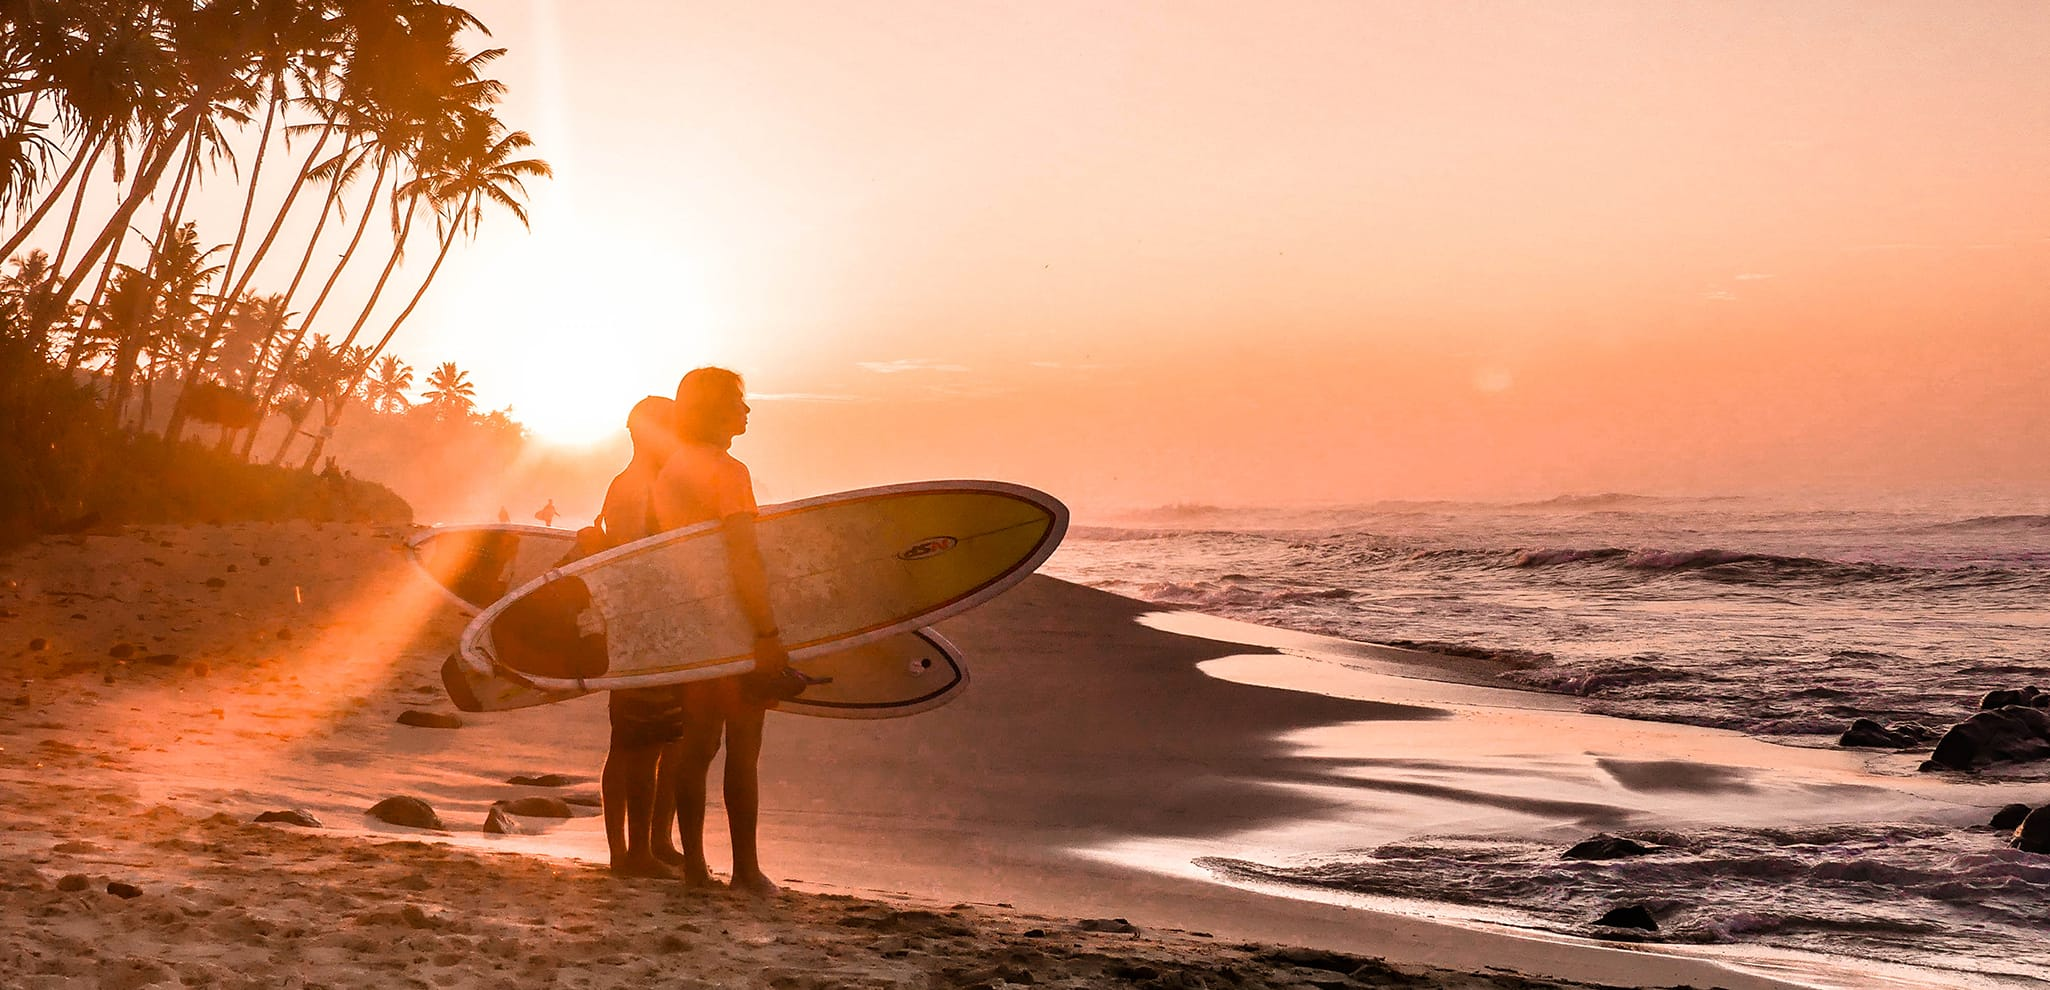
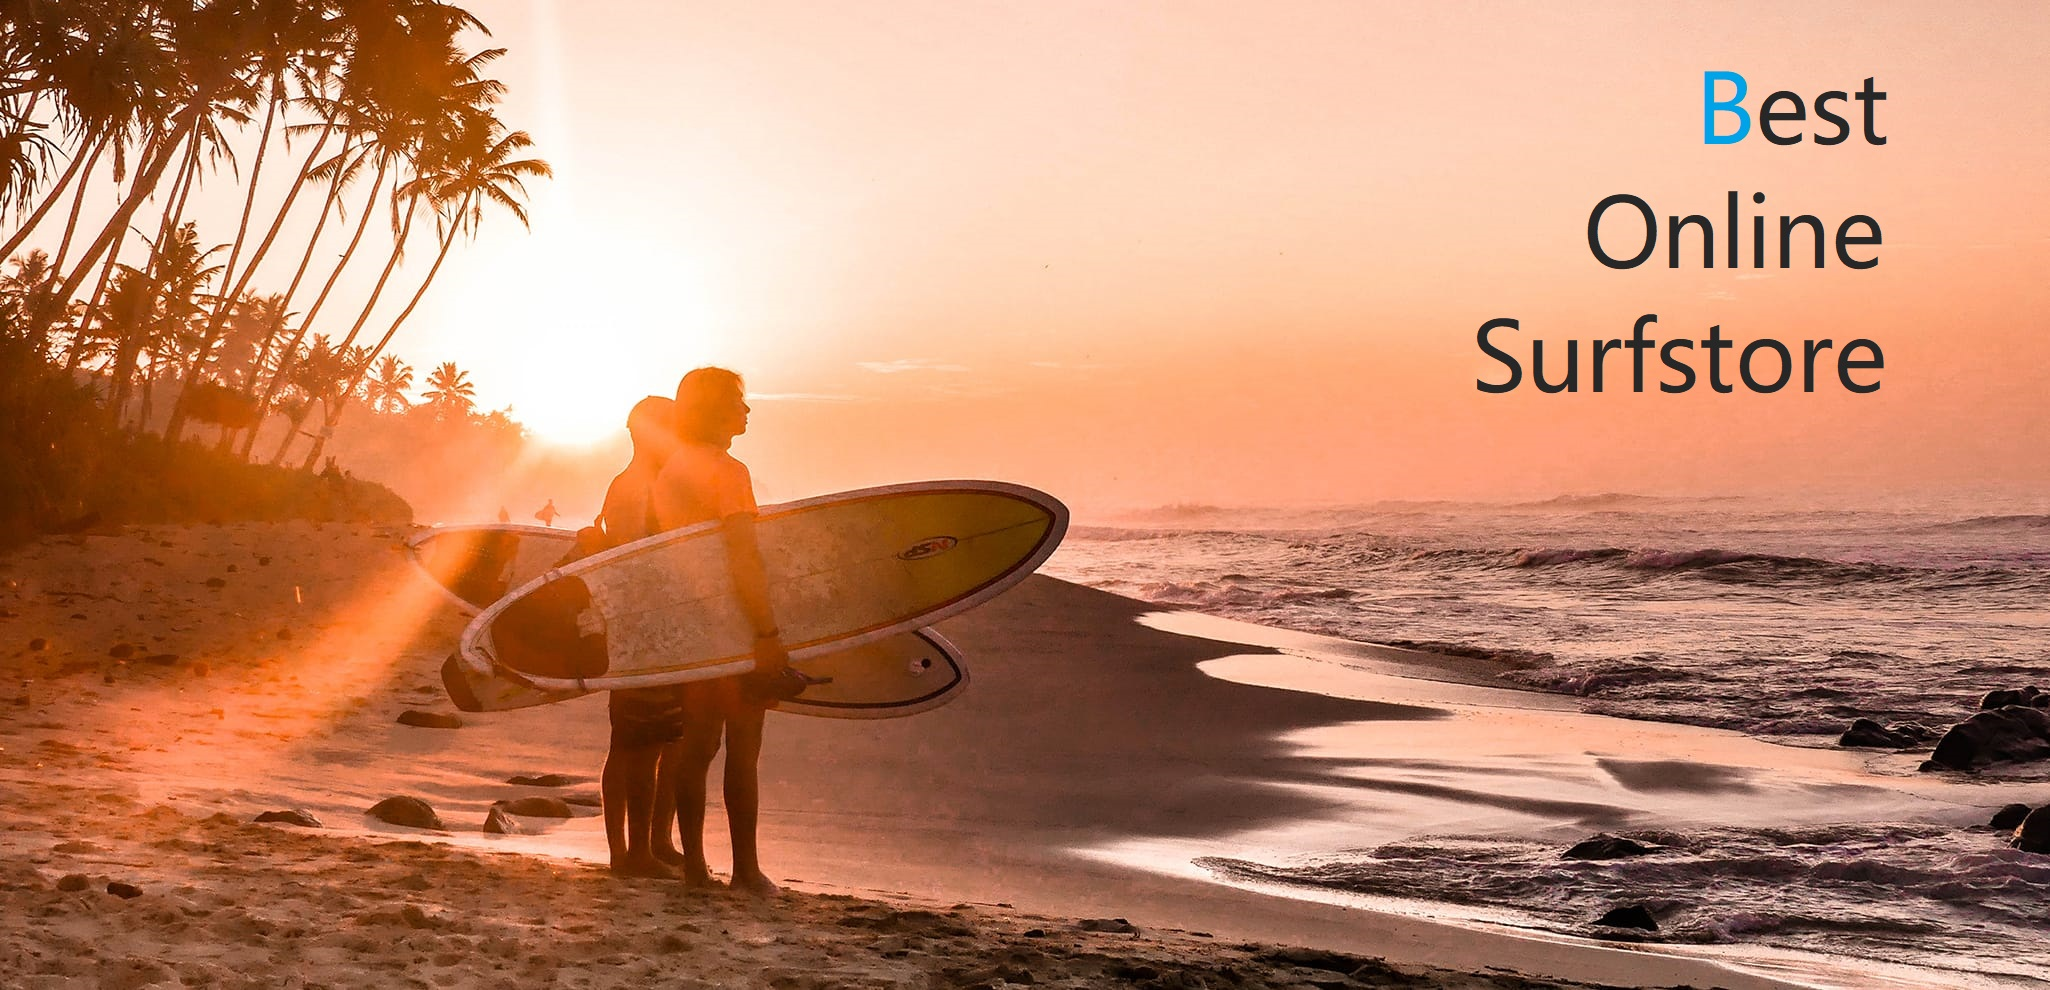
Change index image

Changed region(s): [[0.718, 0.303, 0.9366, 0.3939], [0.7493, 0.1818, 0.9366, 0.2727], [0.8117, 0.0606, 0.9366, 0.1515]]

diff --git a/public/css/app.css b/public/css/app.css
@@ -260,6 +260,8 @@ input[type=number] {
   padding-top: 66.64%;
   margin-top: -150px;
   margin-left: -7.5vw;
+  -webkit-filter: brightness(80%);
+          filter: brightness(80%);
 }
 
 .index-subcategory {

diff --git a/resources/sass/pages/index.scss b/resources/sass/pages/index.scss
@@ -50,6 +50,7 @@
   padding-top: 66.64%;
   margin-top: -150px;
   margin-left: -7.5vw;
+  filter: brightness(80%);
 }
 
 .index-subcategory{

diff --git a/resources/views/contact/index.blade.php b/resources/views/contact/index.blade.php
@@ -6,11 +6,9 @@
 
 {!! Form::open(['action'=>'ContactController@submit_message', 'method'=>'POST']) !!}
   @csrf
-  {{Form::email('email', '', ['class'=>'form-control', 'placeholder'=>'Enter your email'])}}
-  <div class="form-group">
-    {{Form::text('subject', '', ['class'=>'form-control mt-5', 'placeholder'=>'Subject'])}}
-    {{Form::textarea('message', '', ['class'=>'form-control mt-2', 'placeholder'=>'Message'])}}
-  </div>
+  {{Form::email('email', '', ['class'=>'form-control mb-1', 'placeholder'=>'Enter your email'])}}
+  {{Form::text('subject', '', ['class'=>'form-control mb-1', 'placeholder'=>'Subject'])}}
+  {{Form::textarea('message', '', ['class'=>'form-control', 'placeholder'=>'Message'])}}
   <div class="form-group mt-5">
     {!! link_to(URL::previous(), 'Back', ['class'=>'btn btn-default']) !!}
     {!! Form::submit('Send', ['class'=>'btn btn-primary mr-5', 'id'=>'save-button']) !!}
